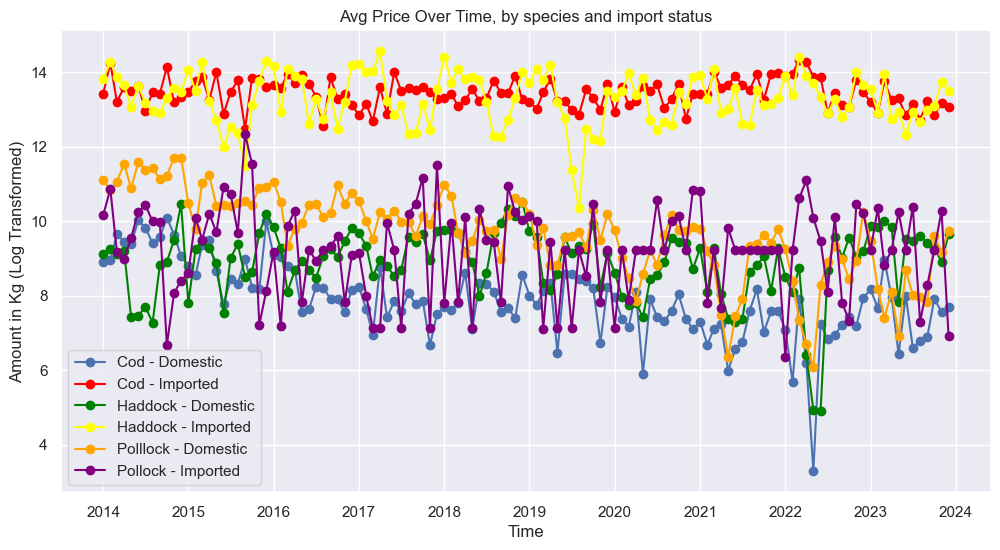
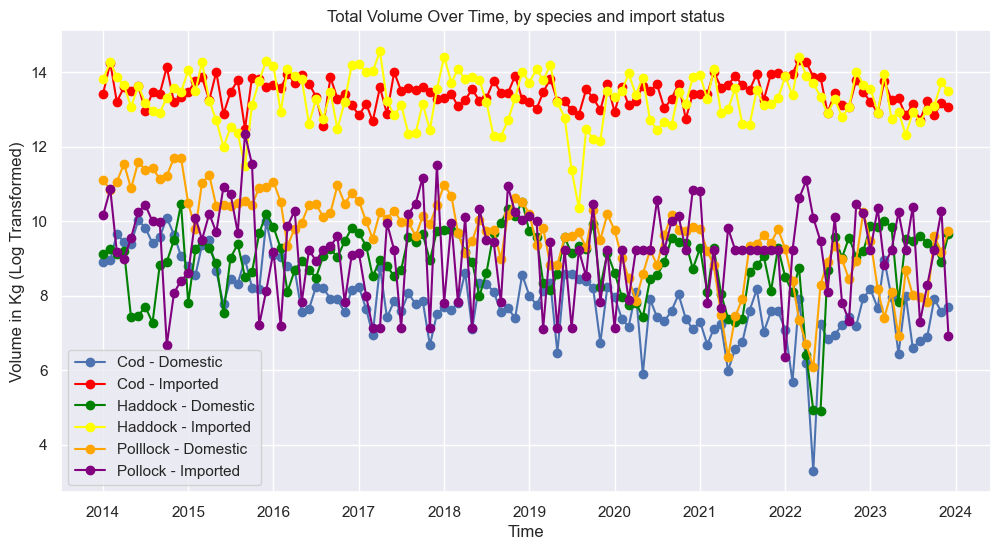
updates

diff --git a/src/modeling_prep.py b/src/modeling_prep.py
@@ -200,7 +200,7 @@ def main():
     plt.plot(filtered_df_range.index.to_timestamp(), filtered_df_range.Pollock_Domestic_USD, marker='o', color='orange', label='Polllock - Domestic')
     plt.plot(filtered_df_range.index.to_timestamp(), filtered_df_range.Pollock_Imported_USD, marker='o', color='purple', label='Pollock - Imported')
     plt.legend()
-    plt.title('Amount Over Time, by species and import status')
+    plt.title('Avg Price Over Time, by species and import status')
     plt.xlabel('Time')
     plt.ylabel('Price (USD)')
     plt.savefig('figs/data_viz_amount', bbox_inches='tight')
@@ -214,9 +214,9 @@ def main():
     plt.plot(filtered_df_range.index.to_timestamp(), filtered_df_range.Pollock_Domestic_Kilos, marker='o', color='orange', label='Polllock - Domestic')
     plt.plot(filtered_df_range.index.to_timestamp(), filtered_df_range.Pollock_Imported_Kilos, marker='o', color='purple', label='Pollock - Imported')
     plt.legend()
-    plt.title('Avg Price Over Time, by species and import status')
+    plt.title('Total Volume Over Time, by species and import status')
     plt.xlabel('Time')
-    plt.ylabel('Amount in Kg (Log Transformed)')
+    plt.ylabel('Volume in Kg (Log Transformed)')
     plt.savefig('figs/data_viz_value', bbox_inches='tight')
     plt.show();
 

diff --git a/PROTOTYPE.md b/PROTOTYPE.md
@@ -43,7 +43,7 @@ THe import information obtained from NOAA covered all imports from Europe. The c
 
 ### Create Pivot Tables
 
-The selected data was then formated for regression analysis. Two pivot tables where created, one for quantity and the other for value. Table rows are period indexes with the format MM/YYYY. The columns are the the fish species and origin. These two tables where then joined into a single dataframe. 
+The selected data was then formated for regression analysis. Two pivot tables where created, one for quantity and the other for value. Table rows are period indexes with the format MM/YYYY. The Portland Fish Exchange data reported monthly totals, and was therefore the limitng factor in-terms of time scale. The columns are the the fish species and origin (domestic vs imported). These two tables where then joined into a single dataframe for further preprocessing.
 
 ```python
     ### Create Pivot Tables
@@ -83,13 +83,13 @@ The feature columns where plotted as histograms to visually assess the distribut
 
 ### Transform Value Features
 
-Because the quantity data was skewed, we implemented a log transformation to try to produce more normally distributed data. The results of that transformation can be seen below. 
+THe value columns appeared close to normally distributed. However, the quantity distributions appeared skewed so we implemented a log transformation to try to produce more normally distributed data. The results of that transformation can be seen below. 
 
 <img src="figs/amount_log_dist.png" width=800>
 
 ### Set Time Frame
 
-We selected a timeframe of 10 year period from 01/2014 to 01/2024. 
+We selected a timeframe of 10 year period from 01/2014 to 01/2024. This time frame was designed to capture all available data after the collapse of the New England Groudfishery resulted in a major change in import trends. Our focus was specifically on trade and price dynamics from countries fishing the Barents Sea within the post 2013 paradigm.
 
 ```python
     ### Set Time Frame
@@ -100,7 +100,7 @@ We selected a timeframe of 10 year period from 01/2014 to 01/2024.
 
 ### Drop NaN Values and Impute
 
-At this point the data included many NaN values that needed to be resolved before regression could be done. 
+At this point the data included many NaN values that needed to be resolved before regression could be done. We used the Missingno library to visually assess this ratio and distribution of NaN values within the dataset.  
 
 <img src="figs/missingness1.png" width=800>
 
@@ -112,7 +112,7 @@ Since out main focus of the inquiry was Haddock, Cod and Pollock it did not seem
 
 <img src="figs/missingness2.png" width=800>
 
-The Imported Pollock data also included some NaN values, but these seemed more likely to have a strong bearing on our analysis. We visualized the distributions to insure a normal-like distrabution, then imputed the values using mean. 
+The Imported Pollock data also included NaN values, but these seemed more likely to have a strong bearing on our analysis. We visualized the distributions to insure a normal-like distrabution, then imputed the values using mean. 
 
 <img src="figs/dist_imputed_values.png" width=400><img src="" width=400>
 
@@ -120,15 +120,19 @@ Lastly we eliminated any remaining rows with NaN values.
 
 <img src="figs/missingness3.png" width=800>
 
-The final results was a Feature Matrix with 120 rows and 13 features. 
+The final results was a Feature Matrix with 120 rows and 13 features, with each row represents one month over the past 10 years. Price data objects represent the mean price per kg for that month, and quantity data objects are the total of landing of imported fish for that month.
 
 ### Visualize Data
 
 A quick visualization of the value and amount over time. 
 
-<img src="figs/data_viz_value.png" width=800>
+<img src="figs/data_viz_value.png" width=800>  
+
 
 <img src="figs/data_viz_amount.png" width=800>
+
+We can see an increase int he price of imported Cod and Haddock over the past two years with what appears to be the start of a downward trend in the volume of same. This could be indicators that our intial assumption that changes in Barents Sea fishing policy is impacting imports to Maine. The relation of these trends to Pollock prices is not clear from this visualization.
+ 
 
 Check for effects of seaonality with boxplots.
 
@@ -136,13 +140,15 @@ Check for effects of seaonality with boxplots.
 
 <img src="figs/value_boxplots.png" width=800>
 
+There is not clear impact of seaonality on price based on this plot. There may be some effect on volume, but the realtionship is not clear. 
+
 ### Correlations and Pairplots
 
 Checking for correlation amoung the features. 
 
 <img src="figs/heatmap.png" width=800>
 
-There do appear to be some minor correlations between some of the features. At this point we will not drop any features from the analysis, but we will need to look into ways of account for covariance in the regression analysis. 
+There do appear to be some minor correlations between some of the features. At this point we will not drop any features from the analysis, but we will need to look into ways of account for potential covariances in the regression analysis. 
 
 <img src="figs/pairplots.png" width=800>
 
@@ -182,7 +188,7 @@ This summary demonstates that the Oridnary Least Square regression model explain
 
 F-statistic and Prob (F-statistic):
 
-THe F-statistic compares the regression model obtained to the null hypothesis (that domestic pollock prices are independent of the features) where the coeffecients of all variables are zero. The probability of the F-statistic gives the probability that the null hypothesis is true, given the the F-statistic. In this case, it is quite low indicating that the regression model is likely producing a signifigant result and will be a useful approach to pursue. 
+The F-statistic compares the regression model obtained to the null hypothesis (that domestic pollock prices are independent of the features) where the coeffecients of all variables are zero. The probability of the F-statistic gives the probability that the null hypothesis is true, given the the F-statistic. In this case, it is quite low indicating that the regression model is likely producing a signifigant result and will be a useful approach to pursue. 
 
 Coefficients:
 
@@ -197,12 +203,14 @@ Haddock_Imported_Kilos    -0.5231      0.128     -4.099      0.000      -0.776  
 Hake_Domestic_Kilos        0.4379      0.142      3.091      0.003       0.157       0.719
 Pollock_Domestic_Kilos    -0.8893      0.178     -5.002      0.000      -1.242      -0.537
 ```
-Imported Cod and Haddock do seem to have a signifigant effect, as expected, on Pollock prices. There are also several domestic factors that seem to be influencing pollock price. Not suprisingly, the amount of domestic Pollock caught has a negative impact on price. Based on this analysis it seems that Pollock_Domestic_Kilos has the strongest effect, however we can use other regression methods to remove covariance and see if this is still true. 
+Imported Cod and Haddock prices do seem to have a signifigant effect, as predicted, on Pollock prices. There are also several domestic factors that seem to be influencing pollock price. Not suprisingly, the amount of domestic Pollock caught has a signifigant negative impact on price. Based on this analysis it seems that Pollock_Domestic_Kilos has the strongest impact on our dependent variable.
 
 
 The plot of the residuals below shows a distribution of residuals that appears random. Again this is a good indicator that a linear model is good fit for this dataset. 
 
 <img src="figs/statsmodel_residuals.png" width=800>
+
+Our next steps will be to further investigate the relationship between X and y an dtry to find a regression model with the best possible predictive power as measured by explained varaince. 
 
 ### Univariate Regression
 
@@ -218,7 +226,7 @@ We can select and look at the regression line and residual plot for all features
 <img src="figs/univariate_Hake_Domestic_USD.png" width=800>
 <img src="figs/univariate_Pollock_Domestic_Kilos.png" width=800>
 
-Visually there apear to be a high degree of dias in some cases. For example, the regression for HAddock_Imported_Kilos might be better represented with a polynmial regression. Since we are less concerned with individual relationships we will move on to try to improve the multivariate regression.   
+Visually there apear to be a high degree of bias in some cases. For example, the regression for Haddock_Imported_Kilos might be better represented with a polynmial regression. Since we are less concerned with individual relationships we will move on to try to improve the multivariate regression.   
 
 
 ### Multivariate Regression
@@ -234,6 +242,7 @@ Mean Squared Error: 0.9472081346425588
 Intercept: [4.92655315]
 ```
 
+The explained variance ratio is somewhat improved over the intial statmdodel estimate. Interestingly, this model perfomed better on the test data than on the trianing data. 
 
 <img src="figs/multi_reg_result.png" width=800>
 
@@ -299,7 +308,7 @@ Mean Squared Error with best alpha: 0.9471284759470703
 R-squared: 0.5824270969636274
 ```
 
-These reults are the same as the mutlivariate regression, suggesting that that is not a high enough degree of colineairty for LASSO to penalize any feature enough to reduce the coeficient to zero. 
+These reults are the same as the mutlivariate regression, suggesting that that is not a high enough degree of colinearity for LASSO to penalize any feature enough to reduce the coeficient to zero. 
 
 
 <img src="figs/lasso_coef.png" width=800>
@@ -325,7 +334,7 @@ Would love some commentary on here on if and how we can improve? Finding a null 
 ___
 ## Results
 
-TBD
+Our best model's returned an explained variance ratio of ~0.58. Due to the complexity of market factors impacting price of Pollock, this seems to be a reasonable result. It is clear that there are many features not included in our data set that are affecting price - as anticipated. However, of the 58% of the varaince that is explained, several features do stand out as having 
 
 ___
 ## Next Steps
